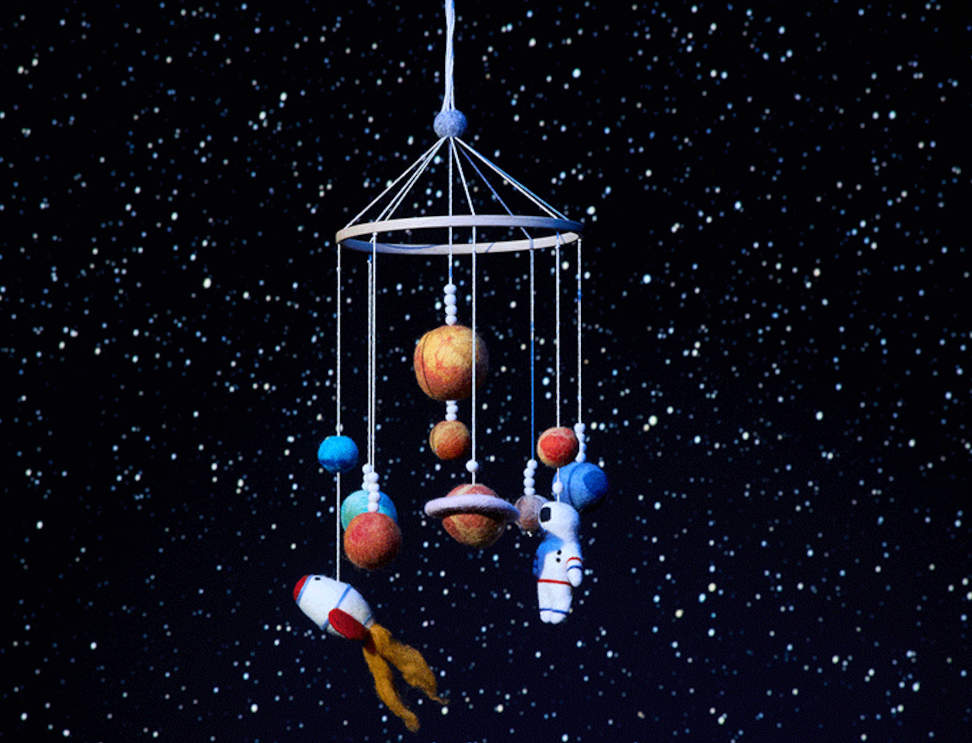
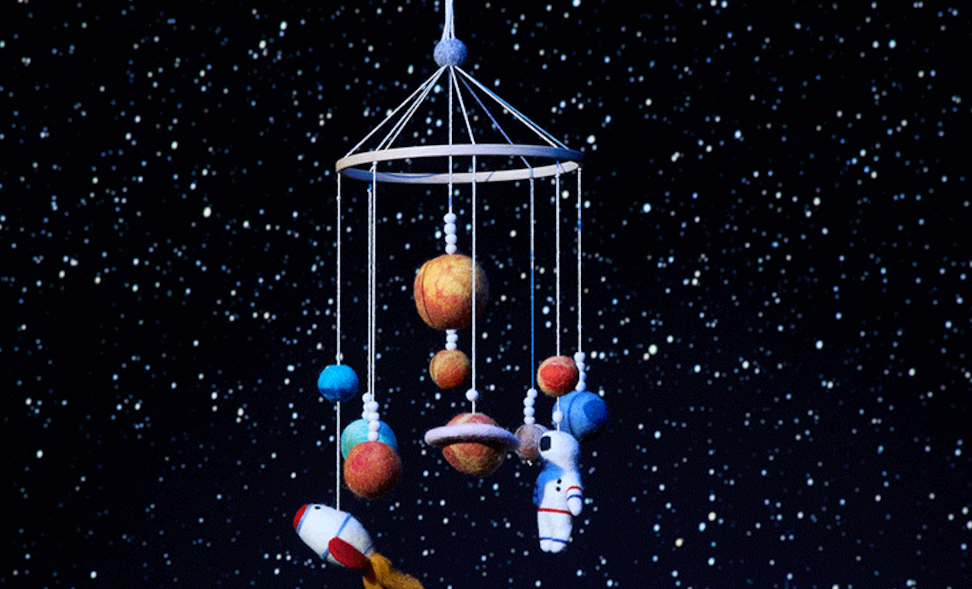
WEB WITH THE RESPONSIVE VERSION

diff --git a/myStyle.css b/myStyle.css
@@ -12,6 +12,15 @@ a{
     color:black;
     text-decoration: none;
 }
+body{
+    background-color: black;
+}
+main{
+    display: flex;
+    flex-direction: row-reverse;
+    color:white;
+
+}
 nav a
 {
     font-family: "Lato", sans-serif;
@@ -21,16 +30,7 @@ nav a
     font-weight: 700;
     letter-spacing: 1px;
 }
-.logo {
-    margin-right: 30px;
-    margin-left: 20px;
-    max-width: 110px;
-}
-.subscribe-zone
-{
-    background-color: yellow;
-   padding: 24px 15px;
-}
+
 h2{
     text-transform: uppercase;
     font-family: "Lato", sans-serif;
@@ -56,7 +56,16 @@ h3:hover{
     letter-spacing: 3px;
     font-weight: hold;
 }
-
+.logo {
+    margin-right: 30px;
+    margin-left: 20px;
+    max-width: 110px;
+}
+.subscribe-zone
+{
+    background-color: yellow;
+   padding: 24px 15px;
+}
 
 .site-init{
     display:flex;
@@ -72,38 +81,30 @@ h3:hover{
     align-items: center;
     
 }
-body{
-    background-color: black;
-}
-main{
-    display: flex;
-    flex-direction: row-reverse;
-    color:white;
 
-}
-.main-news
-{
+.main-news {
     margin-top: 30px;
+    position: relative;
 }
+
+.main-news-text {
+    position: absolute;
+    bottom: 20px;
+    left: 20px;
+    right: 20px;
+    color: white;
+}
+
+.main-news-text p {
+    font-size: 30px;
+    font-weight: bold;
+}
+
 .container{
     width: 80%;
     margin : 10px auto;
 }
-.main-news-text{
-    position: relative;
-}
-.main-news-text
-{
-    position: absolute;
-    top: 500px;
-    color:rgb(255, 255, 255);
 
-}
-.main-news-text p
-{
-    font-size: 30px;
-    font-weight: hold;
-}
 .news-container
 {
     width: 60%;
@@ -113,6 +114,7 @@ main{
     display: flex;
     gap:20px;
     margin-top: 30px;
+    
 }
 
 
@@ -121,6 +123,11 @@ main{
     background-color: white ;
     color:black;
     padding: 20px;
+}
+.secondary-news img {
+    width: 100%;
+    height: 300px;
+    object-fit: cover;
 }
 .lastet-stories-container
 {
@@ -149,4 +156,124 @@ main{
 .today-picks-text{
     width: 70%;
 }
+.btn-subscribe {
+  background-color: #FFCC00;
+  color: #000 !important;
+  font-weight: bold;
+    padding: 26px 19px;
+  align-self: stretch;
+  align-items: center;
+}
 
+
+@media ((min-width: 320px) and (max-width: 768px)) {
+
+    .site-init {
+        height: auto;
+        flex-direction: column;
+        align-items: flex-start;
+        padding: 20px;
+    }
+
+    .navigation {
+        flex-direction: column;
+        align-items: center;
+        width: 100%;
+        max-height: 50px;
+    }
+    .navigation nav 
+    {
+        display: none;
+    }
+    .search-section
+    {
+        display: none;
+    }
+    
+    .logo {
+        margin-left: 0;
+        margin-bottom: 20px;    
+
+    }
+    
+    nav a {
+        margin-right: 10px;
+        font-size: 12px;
+    }
+
+
+    main {
+        display: flex;
+        flex-direction: column;
+    }
+
+    .container {
+        width: 90%;
+    }
+
+
+    .news-container {
+        width: 100%;
+    }
+
+    .main-news {
+        margin-top: 20px;
+    }
+
+    .main-news-text {
+        top: auto;
+        bottom: 20px;
+        left: 20px;
+    }
+
+    .main-news-text p {
+        font-size: 24px;
+    }
+
+
+    .secondary-news-container {
+        display: flex;
+        flex-direction: column;
+        gap: 20px;
+        margin-top: 20px;
+    }
+
+    .secondary-news {
+        width: 100%;
+    }
+
+    .secondary-news-text {
+        padding: 15px;
+    }
+
+
+    .lastet-stories-container {
+        width: 100%;
+        margin-top: 40px;
+    }
+
+    h2 {
+        font-size: 28px;
+        margin-bottom: 30px;
+    }
+
+    .today-pick {
+        gap: 15px;
+        margin-bottom: 25px;
+    }
+
+    .todays-pick-img {
+        width: 100px;
+        height: 80px;
+        flex-shrink: 0;
+    }
+
+    .todays-pick-img img {
+        width: 100px;
+        height: 80px;
+    }
+
+    .today-picks-text {
+        width: auto;
+    }
+}

diff --git a/index.html b/index.html
@@ -15,7 +15,7 @@
     <header class="site-init">
       <div class="navigation">
         <img class="logo" src="logo.png" alt="" />
-        <nav>
+        <nav clas="icon-section">
           <a href="#">Animals</a>
           <a href="#">History & culture</a>
           <a href="#">Travel</a>
@@ -26,10 +26,10 @@
         </nav>
       </div>
 
-      <nav>
+      <nav class="search-section">
         <a href="Magnifier"> <i class="fa-solid fa-magnifying-glass"></i></a>
         <a href="#">Login</a>
-        <a href="#">Subscribe</a>
+        <a href="#" class="btn-subscribe">Subscribe</a>
       </nav>
     </header>
 
@@ -37,18 +37,18 @@
       <section class="news-container">
         <div class="main-news">
           <img src="images/espacio.png" alt="the lion" />
-          <div class="main-news-text">
-            <h3>Science</h3>
-            <p>
-              Can humans get pregnant in space?
-            </p>
+          <div class="background-color-text">
+            <div class="main-news-text">
+              <h3>Science</h3>
+              <p>Can humans get pregnant in space?</p>
+            </div>
           </div>
         </div>
         <div class="secondary-news-container">
           <div class="secondary-news">
             <img src="images/paisajeB&W.png" alt="" />
             <div class="secondary-news-text">
-              <h3>Photographic</h3>
+              <h3>Forest</h3>
               <p>
                 Lorem, ipsum dolor sit amet consectetur adipisicing elit. Ut,
                 cumque.
@@ -59,7 +59,7 @@
           <div class="secondary-news">
             <img src="images/barcos.png" alt="" />
             <div class="secondary-news-text">
-              <h3>Photographic</h3>
+              <h3>Boats</h3>
               <p>
                 Lorem, ipsum dolor sit amet consectetur adipisicing elit. Ut,
                 cumque.
@@ -73,7 +73,7 @@
       </section>
 
       <section class="lastet-stories-container">
-        <h2>Latest <br>stories</h2>
+        <h2>Latest <br />stories</h2>
 
         <div class="today-pick">
           <div class="todays-pick-img">
